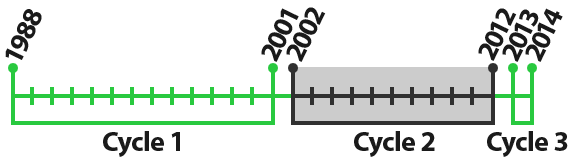
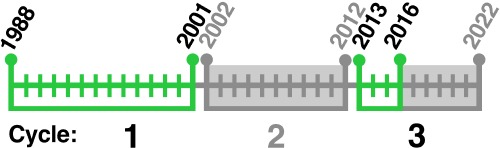
text changes; added new timeline images

diff --git a/src/index.html b/src/index.html
@@ -309,7 +309,7 @@
                     <div role="tabpanel" class="tab-pane" id="learnMoreTabPane">
                         <h3>Learn More</h3>
                         <h3 style="border-bottom: 1px solid rgba(0,0,0,0.4); padding: 15px 0 8px 0; margin-bottom: 8px;display:inline-block;">Evaluating Decadal Changes in Groundwater Quality</h3>
-                        <p>Groundwater quality data were collected from 5,000 wells between 1988-2001 (first sampling event) by the U.S. Geological Survey&#39;s National Water-Quality Assessment Project. Samples are collected in groups of 20-30 wells with similar characteristics called networks.  About 1,500 of these wells in 67 networks were sampled about 10 years later between 2002-2012 (second sampling event) to evaluate decadal changes in groundwater quality. Between 2012 and 2016 (third sampling event), a subset of these networks has been sampled again, allowing additional results to be displayed on the web page: Decadal changes in groundwater quality. This is the third iteration of data added to the website, so this data release is referred to herein as Version 3.0. With the additional data, it is possible to evaluate changes in water quality between the 2nd and 3rd sampling event for 19 additional networks (35 total), changes in water quality between the 1st and 3rd sampling event for 13 additional networks (27 total), and changes across all 3 sampling events for for 14 additional networks (27 total). A total of 81 networks have been sampled at least twice.Samples were obtained from monitoring wells, domestic-supply wells, and some public-supply wells before any treatment on the system.</p>
+                        <p>Groundwater quality data were collected from 5,000 wells between 1988-2001 (first sampling event) by the U.S. Geological Survey&#39;s National Water-Quality Assessment Project. Samples are collected in groups of 20-30 wells with similar characteristics called networks.  About 1,500 of these wells in 67 networks were sampled about 10 years later between 2002-2012 (second sampling event) to evaluate decadal changes in groundwater quality. Between 2012 and 2016 (third sampling event), a subset of these networks has been sampled again, allowing additional results to be displayed on the web page: Decadal changes in groundwater quality. This is the third iteration of data added to the website, so this data release is referred to herein as Version 3.0. With the additional data, it is possible to evaluate changes in water quality between the 2nd and 3rd sampling event for 19 additional networks (35 total), changes in water quality between the 1st and 3rd sampling event for 15 additional networks (27 total), and changes across all 3 sampling events for for 13 additional networks (27 total). A total of 78 networks have been sampled at least twice.Samples were obtained from monitoring wells, domestic-supply wells, and some public-supply wells before any treatment on the system.</p>
                         <p>Groundwater samples used to evaluate decadal change were collected from networks of wells with similar characteristics. Some networks, consisting of domestic or public supply wells, were used to assess changes in the quality of groundwater used for drinking water supply. Other networks, consisting of monitoring wells, assessed changes in the quality of shallow groundwater underlying key land use types such as agricultural or urban lands. Networks were chosen based on geographic distribution across the Nation and to represent the most important water-supply aquifers and specific land-use types.</p>
                         <br/><br/>
                         <h3 style="border-bottom: 1px solid rgba(0,0,0,0.4); padding: 15px 0 8px 0; margin-bottom: 8px;display:inline-block;">Decadal changes in groundwater quality were assessed for these constituents:</h3>
@@ -362,14 +362,14 @@
 
                         <img src="images/explanation.png" style="display: block; margin: 0 auto; width: 90%; max-width: 220px; max-height: 220px; margin-top: 15px; margin-bottom: 15px;"/>
 
-                        <p>Decadal changes in concentrations of pesticides, nutrients, metals, and organic contaminants in groundwater were evaluated in a total of 81 networks across the Nation comparing changes between selected sampling events.</p>
+                        <p>Decadal changes in concentrations of pesticides, nutrients, metals, and organic contaminants in groundwater were evaluated in a total of 78 networks across the Nation comparing changes between selected sampling events.</p>
                         <p>Decadal changes in median concentrations for a network are classified as large, small, or no change in comparison to a benchmark concentration. For example, a large change in chloride concentrations indicates that the median of all differences in concentrations in a network is greater than 5 percent of the chloride benchmark per decade. For chloride, which has a Secondary Maximum Contaminant level of 250 milligrams per liter, this would mean the change in concentration exceeded 12.5 milligrams per liter, or 5 percent of the benchmark.</p>
 
                         <h3 style="border-bottom: 1px solid rgba(0,0,0,0.4); padding: 15px 0 8px 0; margin-bottom: 8px;display:inline-block;">Decadal Groundwater Quality Networks</h3>
                         
                         <img src="images/mapimage.jpg" style="display: block; margin: 0 auto; width: 90%; max-width: 440px;margin-top: 15px; margin-bottom: 15px;"/>
 
-                        <p style="text-align:center;">230 networks were sampled from 1988 to 2001 to assess the status of the Nation's groundwater quality. Each dot on the above map represents the center point of a network of about 20 to 30 wells. Networks sampled in the first round only are shown in green. 67 networks were resampled from 2002 to 2012 to assess decadal changes in groundwater quality and are shown in blue. Networks sampled from 2012 to 2016 and at least one previous round are shown in orange. A total of 81 networks have been sampled at least twice.</p>
+                        <p style="text-align:center;">230 networks were sampled from 1988 to 2001 to assess the status of the Nation's groundwater quality. Each dot on the above map represents the center point of a network of about 20 to 30 wells. Networks sampled in the first round only are shown in green. 67 networks were resampled from 2002 to 2012 to assess decadal changes in groundwater quality and are shown in blue. Networks sampled from 2012 to 2016 and at least one previous round are shown in orange. A total of 78 networks have been sampled at least twice.</p>
                     </div>
                     <div role="tabpanel" class="tab-pane" id="waterResourcesTabPane">
                         <h3>Related Resources</h3>
@@ -417,7 +417,7 @@
                     <div role="tabpanel" class="tab-pane" id="updatesTabPane">
                         <h4><b>Updates to Decadal Changes in Groundwater Quality</b></h4>
                         <br>
-                        This web mapping application is based on data release version 3.0 that updates Decadal changes in groundwater quality: U.S. Geological Survey Web page, Lindsey and others, 2018. Data Release Version 1.0 documented decadal changes in groundwater quality for 67 networks that had been sampled by the National Water-Quality Assessment Project. The results were based on analysis of 1,500 wells in the 67 networks that had been sampled during 1988-2001 and again between 2002-2012. Data Release Version 2.0 included results from samples collected between 2012 and 2014 and Version 3.0 includes results from samples collected during 2015-16 as well as data collected between 2012 and 2014. 
+                        This web mapping application is based on data release version 3.0 that updates Decadal changes in groundwater quality: U.S. Geological Survey Web page, Lindsey and others, 2018. Data Release Version 1.0 documented decadal changes in groundwater quality for 67 networks that had been sampled by the National Water-Quality Assessment Project. The results were based on analysis of 1,509 wells in the 67 networks that had been sampled during 1988-2001 and again between 2002-2012. Data Release Version 2.0 included results from samples collected between 2012 and 2014 and Version 3.0 includes results from samples collected during 2015-16 as well as data collected between 2012 and 2014. 
                         The table below shows the numbers of wells and networks that can be compared across any 2 or 3 time periods:</p>
                         <table class="constituentTable" style="border: 1px solid black;">
                             <thead>
@@ -436,7 +436,7 @@
                                     <td class="constTable">Years</td>
                                     <td class="constTable">1988-2001</td>
                                     <td class="constTable">2002-2012</td>
-                                    <td class="constTable" colspan="3">2012-2014</td>
+                                    <td class="constTable" colspan="3">2012-2016</td>
                                     <!-- <td class="constTable"></td>
                                     <td class="constTable"></td> -->
                                     <td class="constTable" style="background-color: #ededed">Number of sites or networks with at least 2 decadal sampling events</td>
@@ -445,8 +445,8 @@
                                     <td class="constTable"></td>
                                     <td class="constTable"></td>
                                     <td class="constTable">Samples in Cycle 1 and 2</td>
-                                    <td class="constTable">Samples in Cycle 1 and 3 only</td>
-                                    <td class="constTable">Samples in Cycle 2 and 3 only</td>
+                                    <td class="constTable">Samples in Cycle 1 and 3</td>
+                                    <td class="constTable">Samples in Cycle 2 and 3</td>
                                     <td class="constTable">Samples in Cycle 1, 2, and 3</td>
                                     <td class="constTable" style="background-color: #ededed"></td>
                                 </tr>
@@ -466,12 +466,12 @@
                                     <td class="constTable">27</td>
                                     <td class="constTable">35</td>
                                     <td class="constTable">27</td>
-                                    <td class="constTable" style="background-color: #ededed">81</td>
+                                    <td class="constTable" style="background-color: #ededed">78</td>
                                 </tr>
                             </tbody>
                         </table>
                         <br>
-                        <p>New data added from the time period 2015-16 include 258 wells were sampled in 14 networks that could be compared to the same wells and networks sample during 1988-2001, and 418 wells were sampled in 19 networks that could be compared to the same wells and networks sampled during 2002-2012, and 158 wells in 13 networks with sufficient data to evaluate changes across all three events. The results across multiple time periods allow the user to select the time period of interest for display. The comparison of 1988-2001 to 2002-2012 displays the same results as all previous versions. The current version of the web mapper allows the user to select a time period for display. The new options allow the user to select comparisons for new time periods: 1988-2001 to 2012-2016, 2002-2012 to 2012-2016, and also results for data collected across all three time periods. The updated map has results for 1,841 wells in 81 networks. One additional change is that the fumigant 1,2-Dibromo-3-chloro.propane (DBCP) is included on the map for the time period 1988-2001 to 2002-2012 The criteria for mapping, benchmarks, data preparation, and statistical analysis are described in the Technical Information tab. In order to make the evaluations of the magnitude of change comparable, the magnitude of change is displayed based the change in concentration per decade. For comparisons between the first to third sampling period (approximately two decades), the median change is divided by two. For comparisons across three or more time periods, the statistical test result of change in concentration per year is multiplied by ten.</p>
+                        <p>New data added from the time period 2015-16 include 278 wells were sampled in 15 networks that could be compared to the same wells and networks sample during 1988-2001, and 422 wells were sampled in 19 networks that could be compared to the same wells and networks sampled during 2002-2012, and 366 wells in 13 networks with sufficient data to evaluate changes across all three events. The results across multiple time periods allow the user to select the time period of interest for display. The comparison of 1988-2001 to 2002-2012 displays the same results as all previous versions, with exception of the errata listed below. The new options allow the user to select comparisons for new time periods: 1988-2001 to 2012-2016, 2002-2012 to 2012-2016, and also results for data collected across all three time periods. The updated map has results for 1,881 wells in 78 networks. One additional change is that the fumigant 1,2-Dibromo-3-chloro.propane (DBCP) is included on the map for the time period 1988-2001 to 2002-2012 The criteria for mapping, benchmarks, data preparation, and statistical analysis are described in the Technical Information tab. In order to make the evaluations of the magnitude of change comparable, the magnitude of change is displayed based the change in concentration per decade. For comparisons between the first to third sampling period (approximately two decades), the median change is divided by two. For comparisons across three or more time periods, the statistical test result of change in concentration per year is multiplied by ten.</p>
                         <p>
                         <b>Errata from V1, corrected in V2</b>:
                         The following corrections have been made in version 2 of the web site, and thus appear as a change from version 1 for comparison of changes between Cycle 1 and Cycle 2:
@@ -617,7 +617,7 @@
 
                 <div class="faq-header" id="faq6header">6. How many wells were sampled for this study, and what time period is represented? <div id="angle6" style="display: -webkit-inline-box;"><i class="fa fa-angle-right"></i></div></div>
                 <div class="faq-body" id="faq6body">
-                    The dataset consists of of 1,841 wells in 81 groups of wells called networks in various principal aquifers across the country from the U.S. Geological Survey National Water-Quality Assessment project. A network typically is a group of 20&#45;30 wells representing an aquifer (major aquifer study), or a specific depth and (or) land use (land-use study) <a class="showReferencesCitedLapham">(Lapham and others, 1995)</a>. Each network has been sampled at least two times during the periods of 1988&#45;2001, 2002&#45;12, and 2012-16.
+                    The dataset consists of of 1,881 wells in 78 groups of wells called networks in various principal aquifers across the country from the U.S. Geological Survey National Water-Quality Assessment project. A network typically is a group of 20&#45;30 wells representing an aquifer (major aquifer study), or a specific depth and (or) land use (land-use study) <a class="showReferencesCitedLapham">(Lapham and others, 1995)</a>. Each network has been sampled at least two times during the periods of 1988&#45;2001, 2002&#45;12, and 2012-16.
                 </div>
 
                 <div class="faq-header" id="faq7header">7. What does the term &#34;Cycle&#34; mean as used in the &#34;Trend Period&#34; selector? <div id="angle7" style="display: -webkit-inline-box;"><i class="fa fa-angle-right"></i></div></div>
